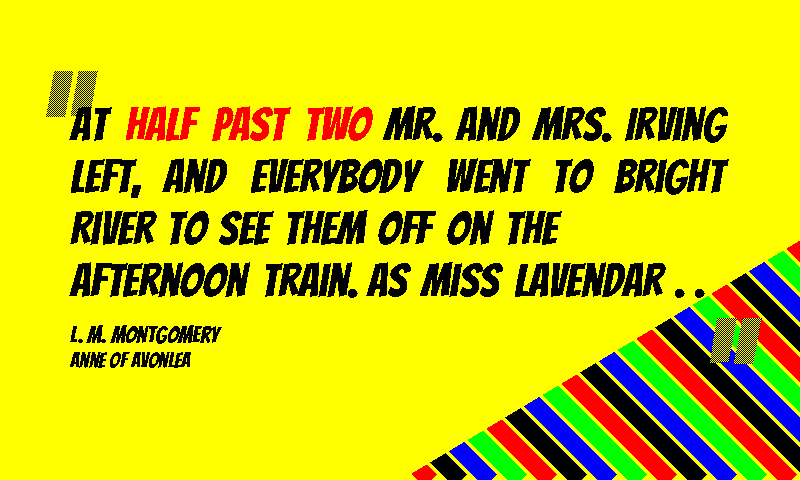
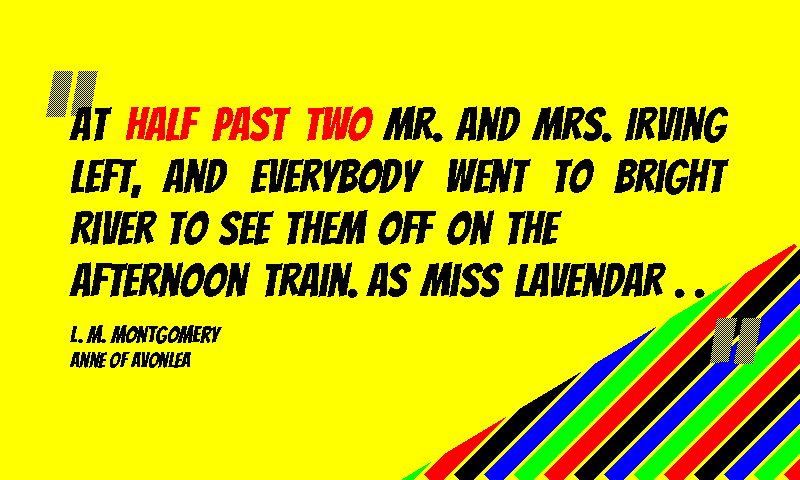
Flip comic theme stripe direction to lean up-and-right
The stripes were previously slope +1 (down-and-right) so they ran
perpendicular to the triangle mask's hypotenuse. Inverting them to
slope -1 makes them parallel to the hypotenuse, which matches the
"/" lean of the reference image and turns the boundary edge into a
clean fade-in along the stripe direction rather than a perpendicular
clip.

Behaviour-only change to draw_comic_corner_stripes' line endpoints;
all five TestComicCornerStripes invariants stay valid (they pin
location and palette, not direction).

Changed region(s): [[0.5, 0.5, 1.0, 1.0]]

diff --git a/render_quote.py b/render_quote.py
@@ -1161,15 +1161,16 @@ def draw_comic_corner_stripes(image: Image.Image, colors: dict) -> None:
     period = 30
     palette = _COMIC_STRIPE_PALETTE
 
-    # Bands run with slope +1 (down-and-right) so each line passes
-    # through (c, 0) at the sub-image's top edge and (c + qh, qh) at
-    # the bottom edge. Visible range of c is [-qh, qw]; iterate a
-    # touch wider so rounded line caps still clip cleanly.
+    # Bands run with slope -1 (down-and-left): each line passes through
+    # (c, qh) at the sub-image's bottom edge and (c + qh, 0) at the top
+    # edge, so the chevron leans up-and-to-the-right and parallels the
+    # mask hypotenuse. Visible range of c is [-qh, qw]; iterate a touch
+    # wider so rounded line caps still clip cleanly.
     i = 0
     c = -qh - period
     while c <= qw + period:
         color = palette[i % len(palette)]
-        qd.line([(c, 0), (c + qh, qh)], fill=color, width=stripe_thickness)
+        qd.line([(c, qh), (c + qh, 0)], fill=color, width=stripe_thickness)
         c += period
         i += 1
 
